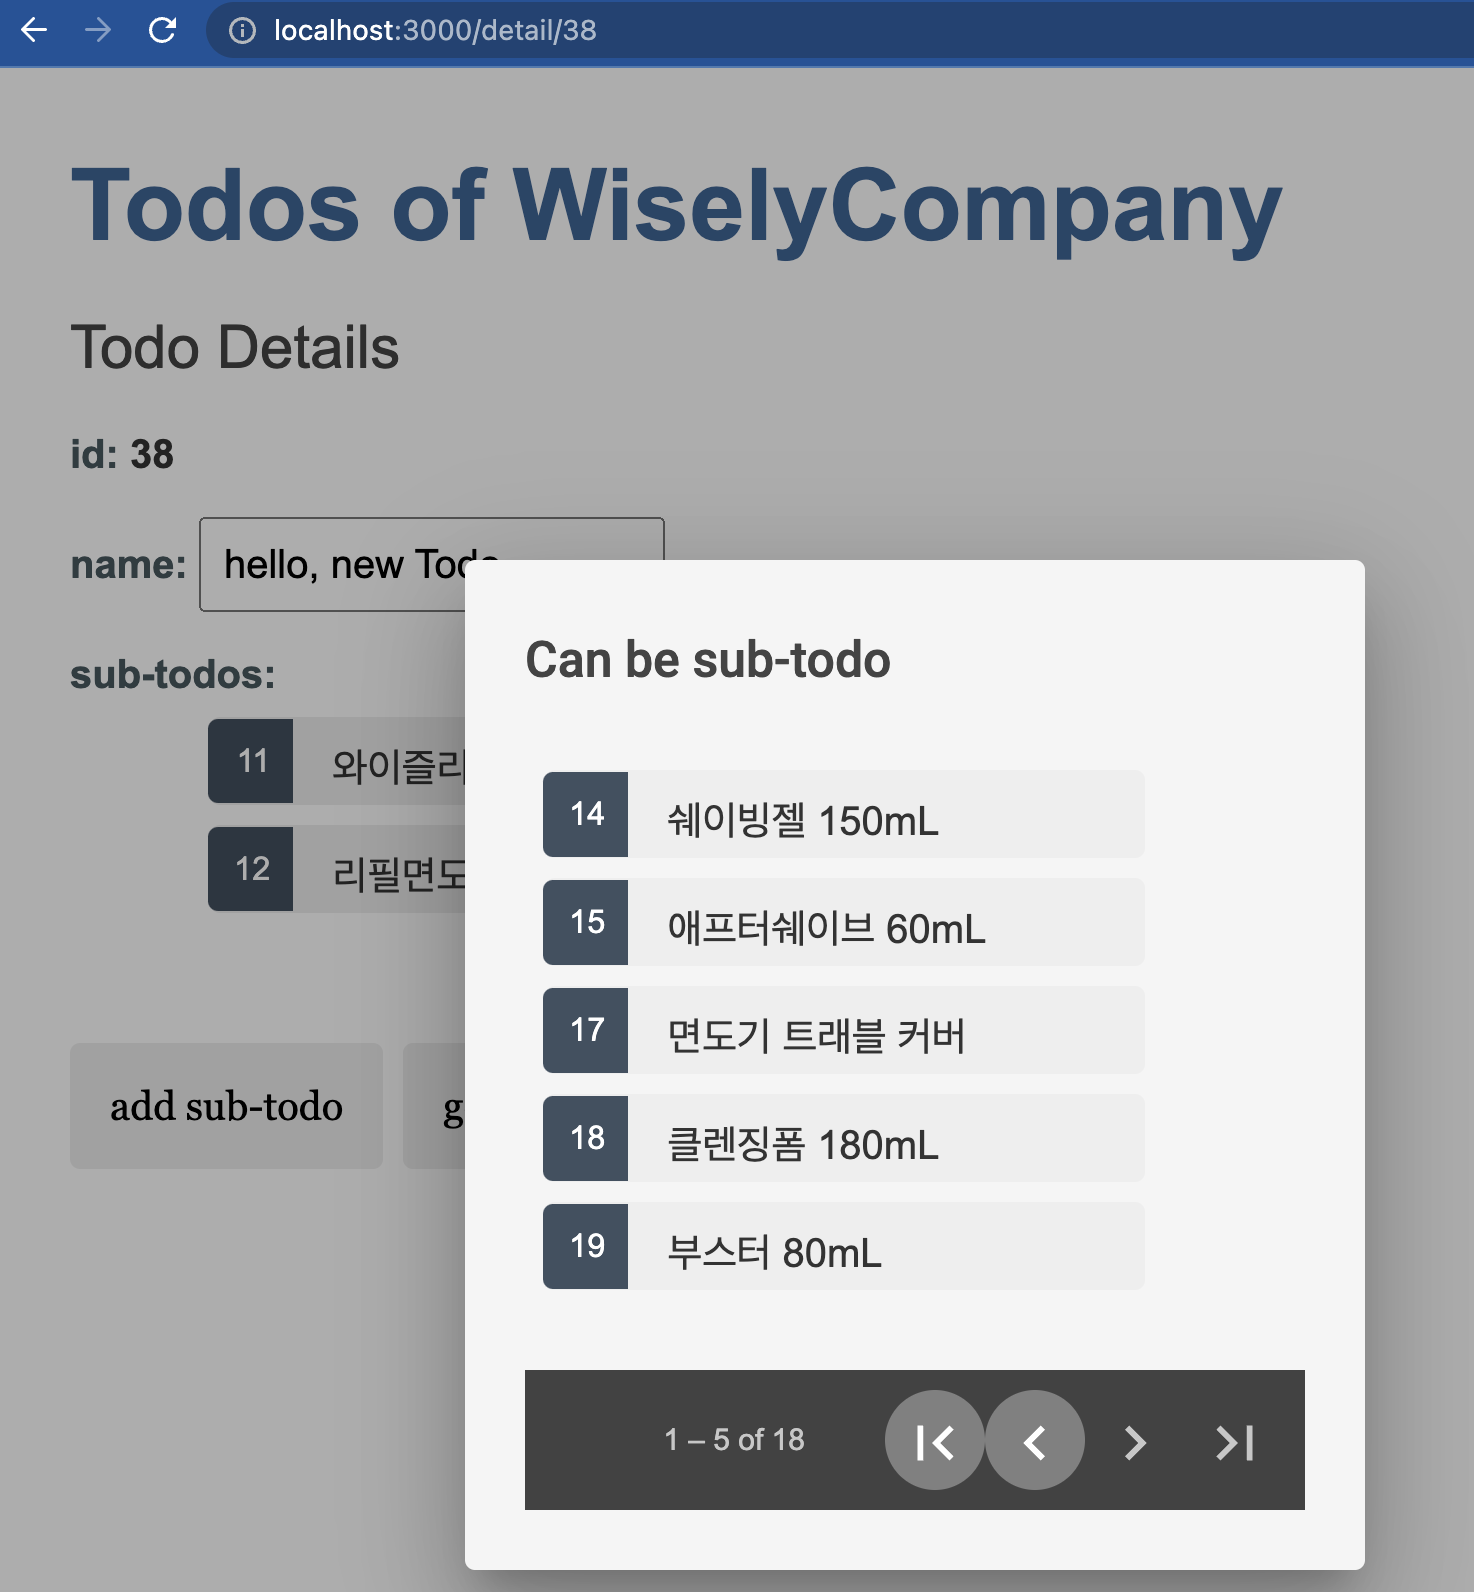
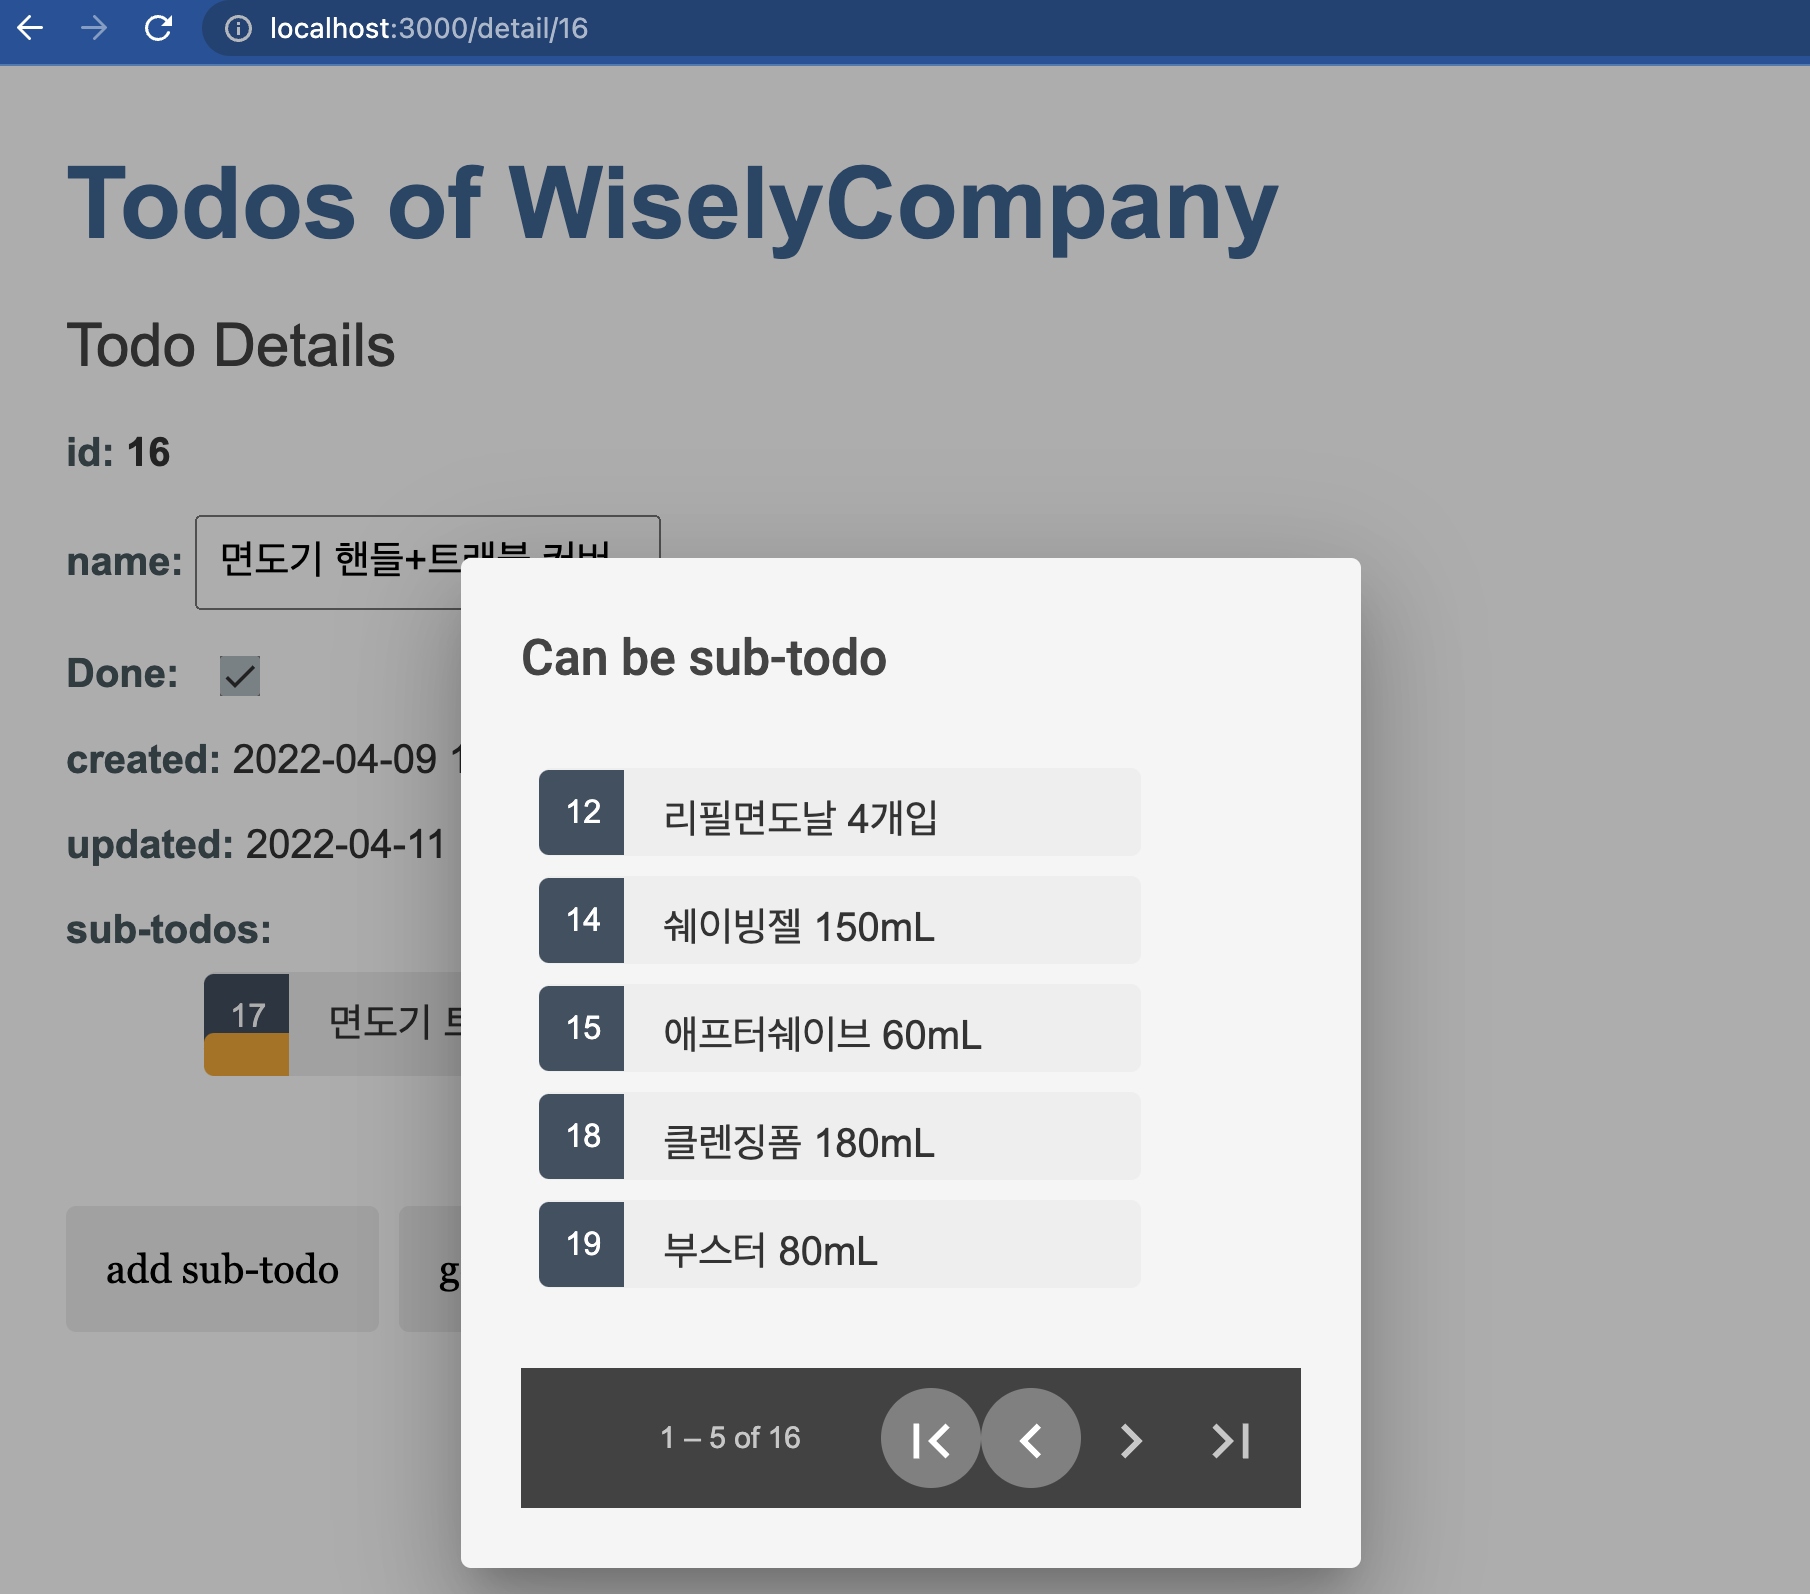
modify README

diff --git a/test/app.e2e-spec.ts b/test/app.e2e-spec.ts
@@ -43,7 +43,7 @@ describe('TodoController (e2e)', () => {
     it('/api/todo/all (GET)', () => {
         return request(app.getHttpServer())
             .get('/api/todo/all')
-            .expect(200)
+            // .expect(200)
             .then(res => {
                 expect(res.body).toBeTruthy();
                 expect(res.body.length).toBeGreaterThan(20);
@@ -55,7 +55,8 @@ describe('TodoController (e2e)', () => {
         const res = await request(app.getHttpServer())
             .post('/api/todo')
             .send({
-                name: 'create TODO in e2e'
+                name: 'create TODO in e2e',
+                done: false,
             });
         console.log('created =', res.text);
         expect(res.body.success).toEqual(true);
@@ -69,6 +70,7 @@ describe('TodoController (e2e)', () => {
             .send({
                 id: updateTodo.id,
                 name: updateTodo.name,
+                done: false,
                 arrtodos: [11, deleteTodo.id]
             });
         console.log('updated =', res.text);
@@ -93,4 +95,5 @@ describe('TodoController (e2e)', () => {
         expect(res.body.arrtodos).toBeTruthy();
         expect(res.body.arrtodos.includes(deleteTodo.id)).toEqual(false);
     });
+
 });

diff --git a/src/todo/todo.controller.spec.ts b/src/todo/todo.controller.spec.ts
@@ -76,6 +76,7 @@ describe('TodoController', () => {
         it('create Todo{ name }', async () => {
             const dto = new TodoDto();
             dto.name = 'hello, new Todo';
+            dto.done = false;
             const res = await todoController.createTodo(dto);
             expect(res.success).toEqual(true);
             expect(res.todo).toBeTruthy();
@@ -90,6 +91,7 @@ describe('TodoController', () => {
             const dto = new TodoDto();
             dto.id = todos[todos.length - 2].id;
             dto.name = todos[todos.length - 2].name;
+            dto.done = todos[todos.length - 2].done;
             dto.arrtodos = [11, todos[todos.length - 1].id];
             const res = await todoController.updateTodo(dto.id, dto);
             expect(res.success).toEqual(true);

diff --git a/README.md b/README.md
@@ -87,8 +87,23 @@ $ npm run start:prod
 ```bash
 # unit tests
 $ npm run test
+...
+ FAIL  src/todo/todo.controller.spec.ts
+  TodoController
+    select TODO
+      ✓ /api/todo/all (12 ms)
+      ✓ /api/todo/11 (2 ms)
+      ✓ /api/todo/ids/11,12
+      ✓ /api/todo/pages/0 (1 ms)
+      ✓ /api/todo/candidates/0?excludes=11
+    create, update, delete TODO
+      ✓ create Todo{ name } (15 ms)
+      ✓ update Todo{ arrtodos } (8 ms)
+      ✓ delete Todo{ id } (3 ms)
+      ✕ update Todo{ arrtodos } cascade by delete (2 ms)
+...
 
-# e2e tests
+# e2e tests (잘 되었던게 안됨)
 $ npm run test:e2e
 ```
 
@@ -110,17 +125,20 @@ $ sqlite3 todos.db -header -column
 
 > pragma table_info('todo');
 cid  name   type          notnull  dflt_value  pk
----  -----  ------------  -------  ----------  --
-0    id     integer       1                    1
-1    name   varchar(200)  1                    0
-2    todos  varchar       0                    0
+---  -------  ------------  -------  ---------------------------  --
+0    id       integer       1                                     1
+1    name     varchar(200)  1                                     0
+2    done     integer       1        0                            0
+3    created  varchar(20)   1        datetime('now','localtime')  0
+4    updated  varchar(20)   1        datetime('now','localtime')  0
+5    todos    varchar       0                                     0
 
-> select * from todo limit 3;
-id  name       todos
---  ---------  --------
-11  와이즐리 제품
-12  리필면도날 4개입
-13  면도기 스타터세트  11,16,17
+> select * from todo where created > '2022-04-29';
+id  name               done  created              updated              todos
+--  -----------------  ----  -------------------  -------------------  -----
+28  혈앵,눈건강,기억력 오메가3    0     2022-04-29 12:00:00  2022-04-29 12:00:00  29
+30  뼈,신경,근육엔 칼슘마그네슘    0     2022-04-30 12:00:00  2022-04-30 12:00:00
+38  hello new Todo 38  0     2022-05-04 01:18:44  2022-05-04 01:22:23  18,19
 
 > .quit
 ```
@@ -138,15 +156,21 @@ id  name       todos
   - GET [http://localhost:3000/api/todo/pages/2?size=3](http://localhost:3000/api/todo/pages/2?size=3) : size 파라미터
 - GET [http://localhost:3000/api/todo/candidates/2?excludes=11,12](http://localhost:3000/api/todo/candidates/2?excludes=11,12) : 하위 Todo 후보의 페이지 반환
   - 하위 Todo 후보는 전체 Todo 에서 아래 조건을 포함하는 Todo 만으로 제한합니다.
+    - 완료 상태 Todo 제외
     - 포함될 상위 Todo 제외
     - 하위 Todo를 가진 Todo 제외
+
+### search
+
+- POST `http://localhost:3000/api/todo/search` : Todo 검색
+  - body `{ "size": 5, "page": 0, "done": true }`
 
 ### create, update, delete APIs
 
 - POST `http://localhost:3000/api/todo` : Todo 추가
-  - body `{ "name": "hello40" }`
+  - body `{ "name": "hello40", "done": false }`
 - PUT `http://localhost:3000/api/todo/40` : Todo 수정
-  - body `{ "id": 40, "name": "hello40", "arrtodos": [11,42] }`
+  - body `{ "id": 40, "name": "hello40", "done": true, "arrtodos": [11,42] }`
 - DELETE `http://localhost:3000/api/todo/40` : Todo 삭제
 
 ## UI (Screens)
@@ -155,16 +179,53 @@ id  name       todos
 
 기본 페이지로 사용되고, Todo 를 등록/삭제하거나 리스트를 조회합니다.
 
-![todos-list](/docs/todos-list.png)
+- 리스트 상에서 완료된 Todo 는 id 아래에 주황색 표시로 강조됩니다.
+- 하위 항목이 있는 경우 오른쪽에 숫자가 표시됩니다.
+
+![todo-list](/docs/todo-list.png)
+
+상단 입력상자와 `Add todo` 버튼으로 Todo 를 등록할 수 있습니다.<br>
+(추가된 상태를 쉽게 알아보기 위해 리스트 상단에 출력하도록 했습니다)
+
+![todo-list-insert](/docs/todo-list-insert.png)
+
+검색 결과와 pagination 을 연동하였습니다.<br>
+(검색 옵션 변경시 pagination 도 변경됨)
+
+![todo-list-pagination](/docs/todo-list-pagination.png)
+
+검색 옵션으로 `done(완료여부)`, `name 검색`, `created 시작일`, `created 종료일` 을 사용할 수 있습니다.<br>
+
+- name 검색어에 대해 특수문자를 삭제 처리 후 매칭
+- created 시작일과 종료일은 "YYYY-MM-DD" 형식을 확인후 매칭
+
+![todo-list-search-done](/docs/todo-list-search-done.png)
+
+![todo-list-search-name](/docs/todo-list-search-name.png)
+
+![todo-list-search-date](/docs/todo-list-search-date.png)
 
 ### Todo 상세 페이지
 
 특정 Todo 에 상세 내용을 조회하고, 하위 Todo 를 추가/삭제합니다.<br>
 하위 Todo 는 다이얼로그 창을 통해 선택합니다.
 
-![todo-detail](/docs/todo-detail.png)
+![todo-detail-done](/docs/todo-detail-done.png)
+
+하위 Todo 선택을 위한 다이얼로그 창은 `add sub-todo` 버는을 누르면 나타납니다.<br>
+선택 가능한 하위 Todo의 조건은 미완료 상태이고, 하위 Todo 가 없는 항목들입니다.
 
 ![todo-detail-dialog](/docs/todo-detail-dialog.png)
+
+`save` 버튼을 누르면 Todo 의 내용이 변경됩니다.<br>
+(변경 가능한 항목은 name, done, 하위 Todo 리스트 입니다)
+
+![todo-detail-update](/docs/todo-detail-update.png)
+
+하위 Todo 항목에 미완료 Todo 가 포함된 경우 `Done 체크박스` 가 비활성화 됩니다.<br>
+(완료 상태이더라도 미완료 Todo 가 추가된 경우 미완료 상태로 변경됩니다)
+
+![todo-detail-undone](/docs/todo-detail-undone.png)
 
 ## License
 
